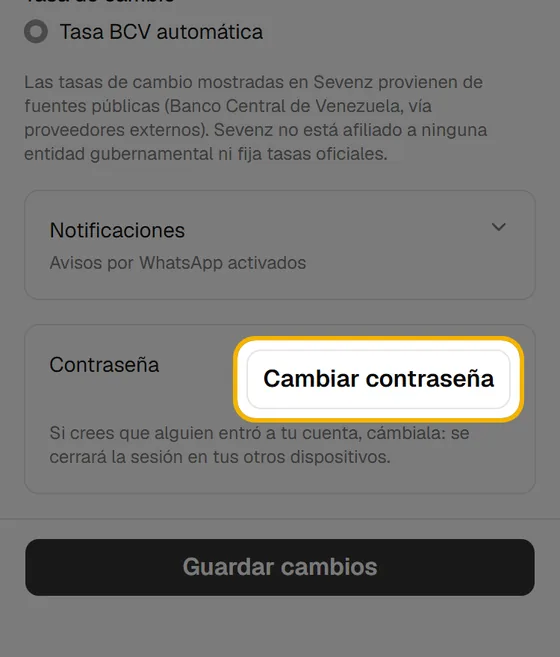
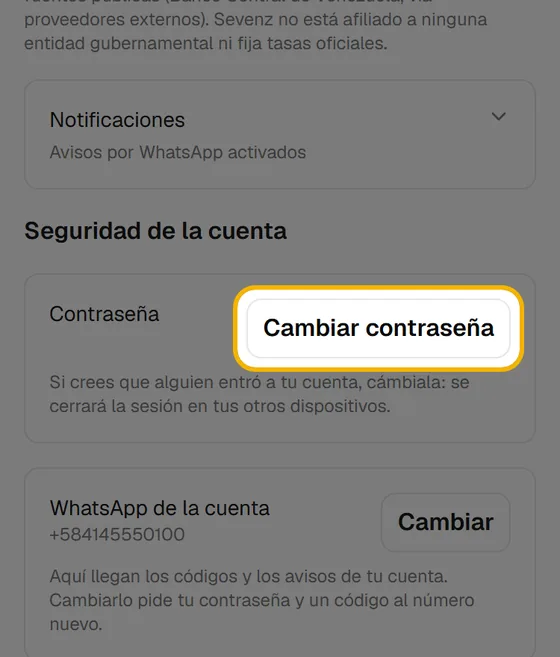
Ayuda: Mi negocio con la tarjeta Seguridad, y tema nuevo Verificacion en dos pasos
Mi negocio: pasos 3, 6, 7 y 8 reescritos contra la pantalla actual (la
tarjeta Seguridad de la cuenta entre el perfil y Guardar), ocho capturas.
Tema 17, verificacion-en-dos-pasos: activar el codigo, elegir WhatsApp o
correo, entrar desde un aparato nuevo, cambiar numero con contrasena, seis
capturas y portada.

diff --git a/lib/soporte.ts b/lib/soporte.ts
@@ -821,8 +821,11 @@ export const TEMAS: Tema[] = [
         imagen: "mi-negocio/2",
       },
       {
+        // Since v0.4.0 (C1 of PL-22) the WhatsApp field only shows the number: it changes
+        // from «Seguridad de la cuenta», with the password and a code to the new number.
         texto:
-          "Revisa [[Nombre del negocio]], [[Nombres del dueño]], [[Apellidos del dueño]] y [[WhatsApp]], y completa [[Dirección de negocio (opcional)]] y [[RIF/NIT (opcional)]] si aplican.",
+          "Revisa [[Nombre del negocio]], [[Nombres del dueño]] y [[Apellidos del dueño]], y completa [[Dirección de negocio (opcional)]] y [[RIF/NIT (opcional)]] si aplican.",
+        pista: "El [[WhatsApp]] se ve aquí, pero se cambia más abajo, en Seguridad de la cuenta: te pedimos tu contraseña y un código al número nuevo.",
         imagen: "mi-negocio/3",
       },
       {
@@ -842,11 +845,17 @@ export const TEMAS: Tema[] = [
         imagen: "mi-negocio/5",
       },
       {
-        texto: "Con [[Cambiar contraseña]] la cambias cuando quieras.",
-        pista: "Al cambiarla se cierra la sesión en tus otros dispositivos.",
+        texto: "En [[Seguridad de la cuenta]], con [[Cambiar contraseña]] la cambias cuando quieras.",
+        pista: "Al cambiarla se cierra la sesión en tus otros dispositivos. Si tienes la verificación en dos pasos, antes te pedimos un código.",
         imagen: "mi-negocio/6",
       },
-      { texto: "Pulsa [[Guardar cambios]].", imagen: "mi-negocio/7" },
+      {
+        texto:
+          "Ahí mismo cambias el [[WhatsApp de la cuenta]] con [[Cambiar]] y enciendes la [[Verificación en dos pasos]] con [[Activar]].",
+        pista: "La verificación tiene su propio tema en esta guía: un código además de tu contraseña cuando entras desde un teléfono nuevo.",
+        imagen: "mi-negocio/7",
+      },
+      { texto: "Pulsa [[Guardar cambios]].", imagen: "mi-negocio/8" },
     ],
     cierre: [
       "En [[Tasa de cambio]] ves la que usa Sevenz: la del BCV, que se actualiza sola.",
@@ -909,6 +918,61 @@ export const TEMAS: Tema[] = [
         titulo: "Sigue necesitando internet",
         texto:
           "Instalarla no la vuelve una app que funcione sin señal. Tus cuentas viven en el servidor, así que para registrar una venta hace falta conexión.",
+        cuidado: true,
+      },
+    ],
+  },
+  {
+    // C1 of PL-22, v0.4.0. Optional per owner. Every label below was read off the dev
+    // screens on 2026-11-06 by temas/seguridad.mjs, which also takes the pictures.
+    slug: "verificacion-en-dos-pasos",
+    numero: 17,
+    grupo: "una-vez",
+    titulo: "Verificación en dos pasos",
+    resumen:
+      "Un código de 6 dígitos además de tu contraseña cuando entras desde un teléfono que Sevenz no conoce. Si alguien se queda con tu contraseña, no le basta.",
+    pasos: [
+      { texto: "Abre el menú y entra a [[Mi negocio]].", imagen: "verificacion-en-dos-pasos/1" },
+      {
+        texto: "Baja hasta [[Seguridad de la cuenta]] y, en [[Verificación en dos pasos]], toca [[Activar]].",
+        imagen: "verificacion-en-dos-pasos/2",
+      },
+      {
+        texto: "Toca [[Enviar código de prueba]].",
+        pista: "Llega al WhatsApp de tu cuenta. Si no te llega, [[Reenviar código]] pide otro, y en los inicios de sesión lo enviamos a tu correo.",
+        imagen: "verificacion-en-dos-pasos/3",
+      },
+      {
+        texto: "Escribe el código en [[Código de 6 dígitos]] y toca [[Activar]].",
+        pista: "Hasta que no lo escribas, no se activa nada.",
+        imagen: "verificacion-en-dos-pasos/4",
+      },
+      { texto: "Listo: la tarjeta dice [[Activa]].", imagen: "verificacion-en-dos-pasos/5" },
+      {
+        texto:
+          "La próxima vez que entres desde un teléfono o un navegador nuevo, después de tu contraseña verás [[Escribe el código]]. Escríbelo y toca [[Confirmar]].",
+        pista: "Vale 10 minutos. Con [[Reenviar código]] pides otro, y si WhatsApp no te llega, puedes pedir que vaya al correo.",
+        imagen: "verificacion-en-dos-pasos/6",
+      },
+    ],
+    cierre: [
+      "Al cambiar tu contraseña también te pediremos el código.",
+      "Para apagarla, toca [[Desactivar]] en la misma tarjeta y escribe tu contraseña.",
+    ],
+    notas: [
+      {
+        titulo: "Solo en aparatos nuevos",
+        texto:
+          "En el teléfono donde ya entraste no te lo pide cada vez. Lo pide cuando entras desde otro aparato, o si borraste los datos del navegador.",
+      },
+      {
+        titulo: "Si tu cuenta no tiene WhatsApp",
+        texto: "El código va a tu correo. Puedes agregar un número en Seguridad de la cuenta, con [[Agregar número]].",
+      },
+      {
+        titulo: "Si no puedes recibir el código",
+        texto:
+          "Perdiste el teléfono y no entras al correo: escríbenos por el canal de soporte. Comprobamos que eres tú y te ayudamos a entrar.",
         cuidado: true,
       },
     ],

diff --git a/lib/soporte-capturas.ts b/lib/soporte-capturas.ts
@@ -68,7 +68,8 @@ export const CAPTURAS: Record<string, [number, number]> = {
   "mi-negocio/4": [560, 657],
   "mi-negocio/5": [560, 657],
   "mi-negocio/6": [560, 657],
-  "mi-negocio/7": [560, 1213],
+  "mi-negocio/7": [560, 657],
+  "mi-negocio/8": [560, 1213],
   "registrar-un-abono/1": [560, 657],
   "registrar-un-abono/2": [560, 657],
   "registrar-un-abono/3": [560, 657],
@@ -111,4 +112,10 @@ export const CAPTURAS: Record<string, [number, number]> = {
   "ver-tus-reportes/7": [560, 657],
   "ver-tus-reportes/8": [560, 1213],
   "ver-tus-reportes/9": [560, 657],
+  "verificacion-en-dos-pasos/1": [560, 1213],
+  "verificacion-en-dos-pasos/2": [560, 657],
+  "verificacion-en-dos-pasos/3": [560, 657],
+  "verificacion-en-dos-pasos/4": [560, 657],
+  "verificacion-en-dos-pasos/5": [560, 657],
+  "verificacion-en-dos-pasos/6": [560, 657],
 };
